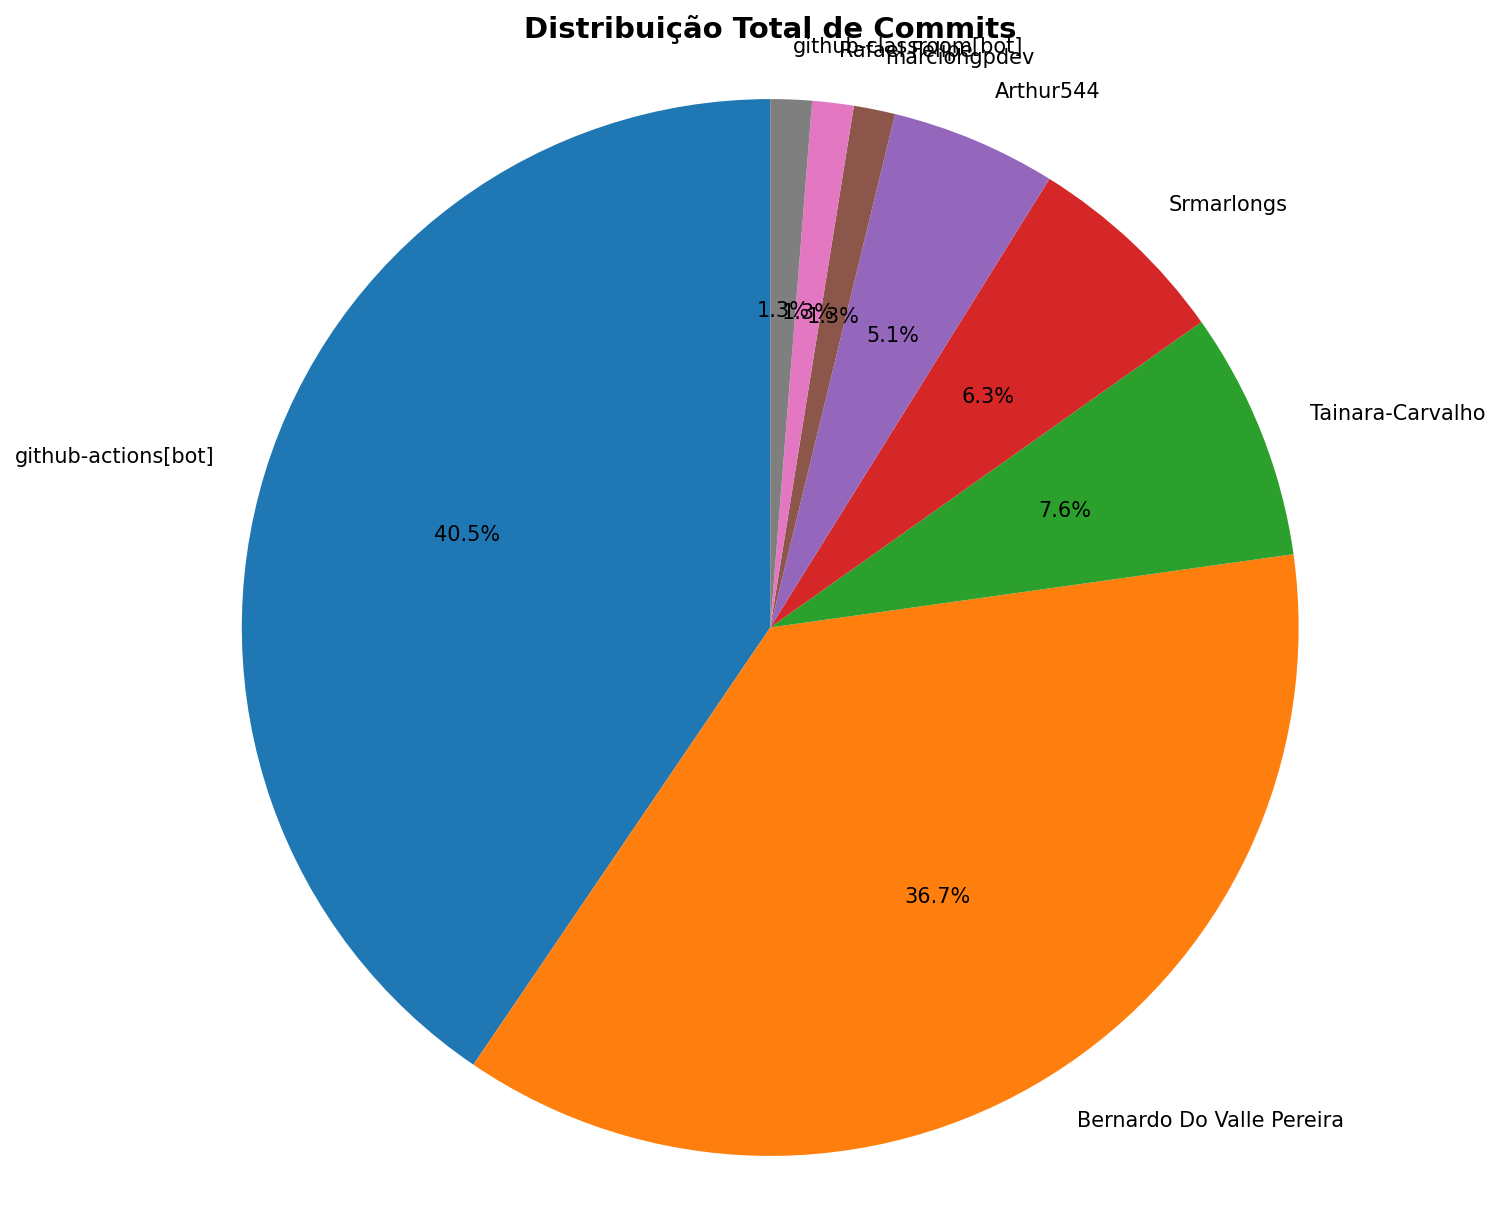
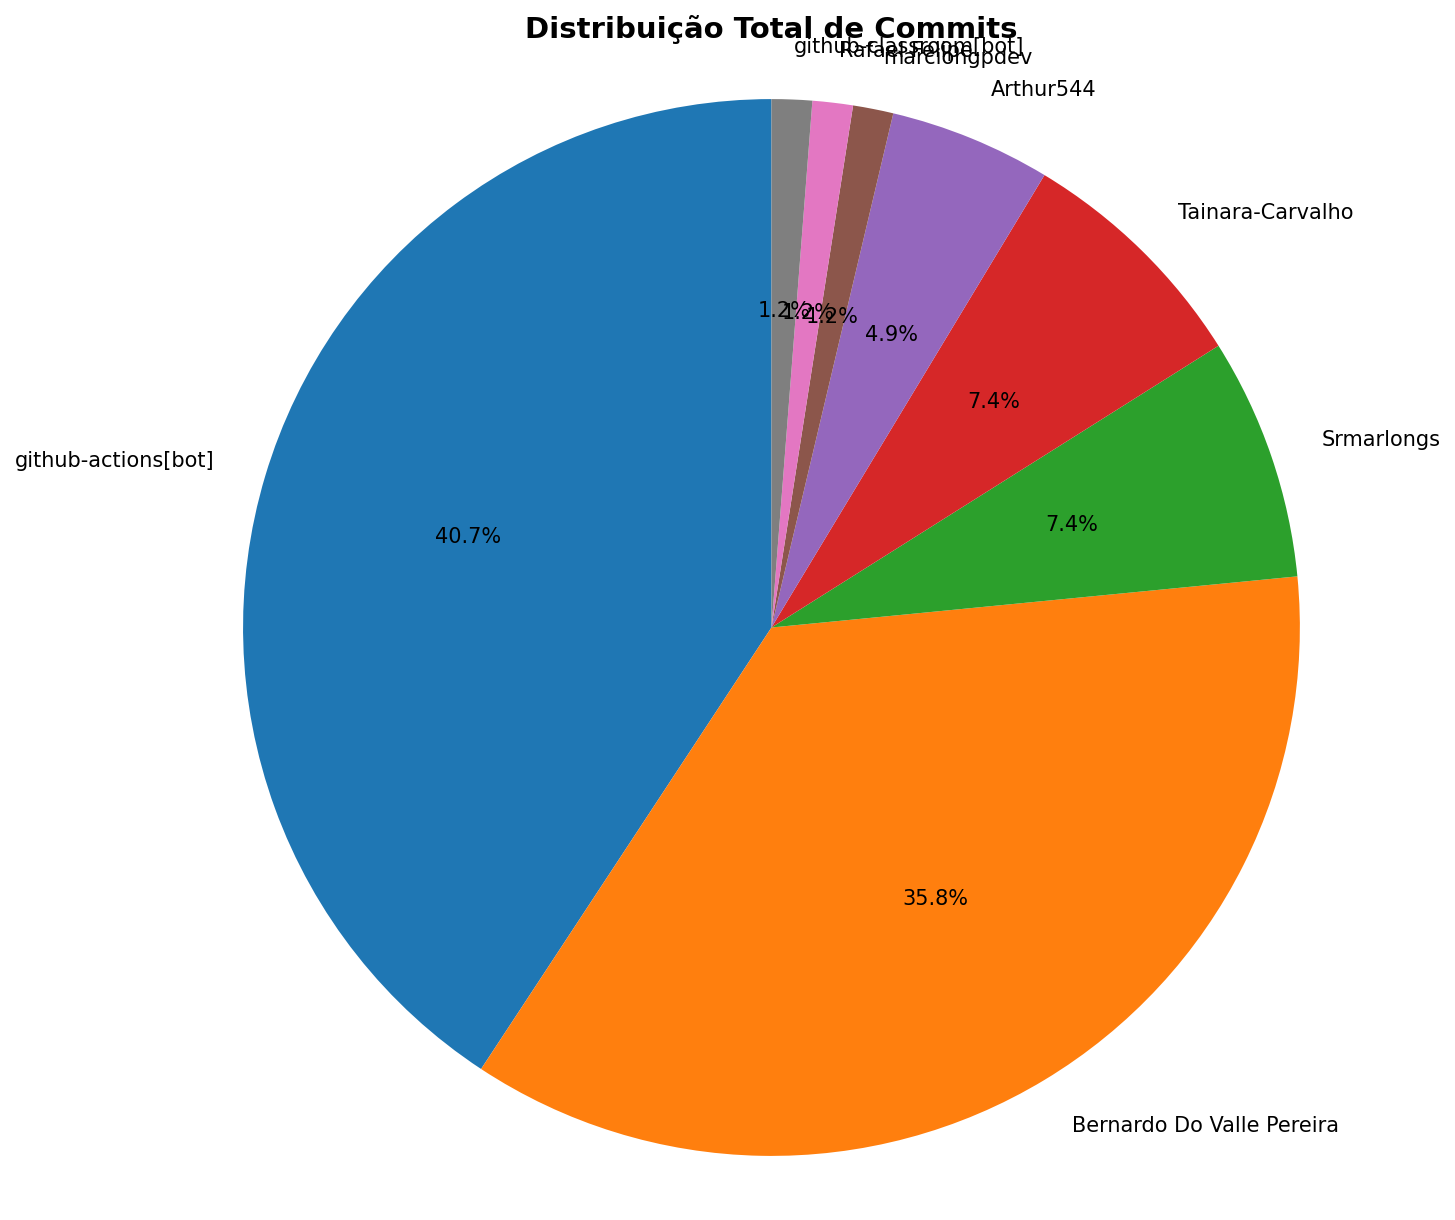
📊 Atualizar relatório de contribuições [skip ci]

diff --git a/documentos/CONTRIBUTION_REPORT.md b/documentos/CONTRIBUTION_REPORT.md
@@ -1,6 +1,6 @@
 # 📊 Relatório de Contribuições do Projeto
 
-**Última atualização:** 12/04/2026 22:44
+**Última atualização:** 12/04/2026 22:48
 
 ---
 
@@ -11,16 +11,16 @@
 | Arthur544                 |         4 |         6 |         4 |          1 |              4 |               1 |
 | Bernardo Do Valle Pereira |        29 |       482 |       219 |         11 |             18 |               3 |
 | Rafael Felipe             |         1 |         1 |         1 |          1 |              1 |               1 |
-| Srmarlongs                |         5 |        20 |         1 |          1 |              5 |               1 |
+| Srmarlongs                |         6 |        23 |         1 |          1 |              6 |               1 |
 | Tainara-Carvalho          |         6 |        21 |        10 |          1 |              6 |               1 |
-| github-actions[bot]       |        32 |       174 |       122 |          3 |             32 |               1 |
+| github-actions[bot]       |        33 |       178 |       126 |          3 |             33 |               1 |
 | github-classroom[bot]     |         1 |       774 |         0 |         19 |              1 |               3 |
 | marciohgpdev              |         1 |         5 |         5 |          1 |              1 |               1 |
 
 
 ## 📅 Contribuições Semanais (Todo o Semestre)
 
-**2026-04-05**: Arthur544: 4, Bernardo Do Valle Pereira: 29, Rafael Felipe: 1, Srmarlongs: 5, Tainara-Carvalho: 6, github-actions[bot]: 32, marciohgpdev: 1
+**2026-04-05**: Arthur544: 4, Bernardo Do Valle Pereira: 29, Rafael Felipe: 1, Srmarlongs: 6, Tainara-Carvalho: 6, github-actions[bot]: 33, marciohgpdev: 1
 
 **2026-03-29**: github-classroom[bot]: 1
 
